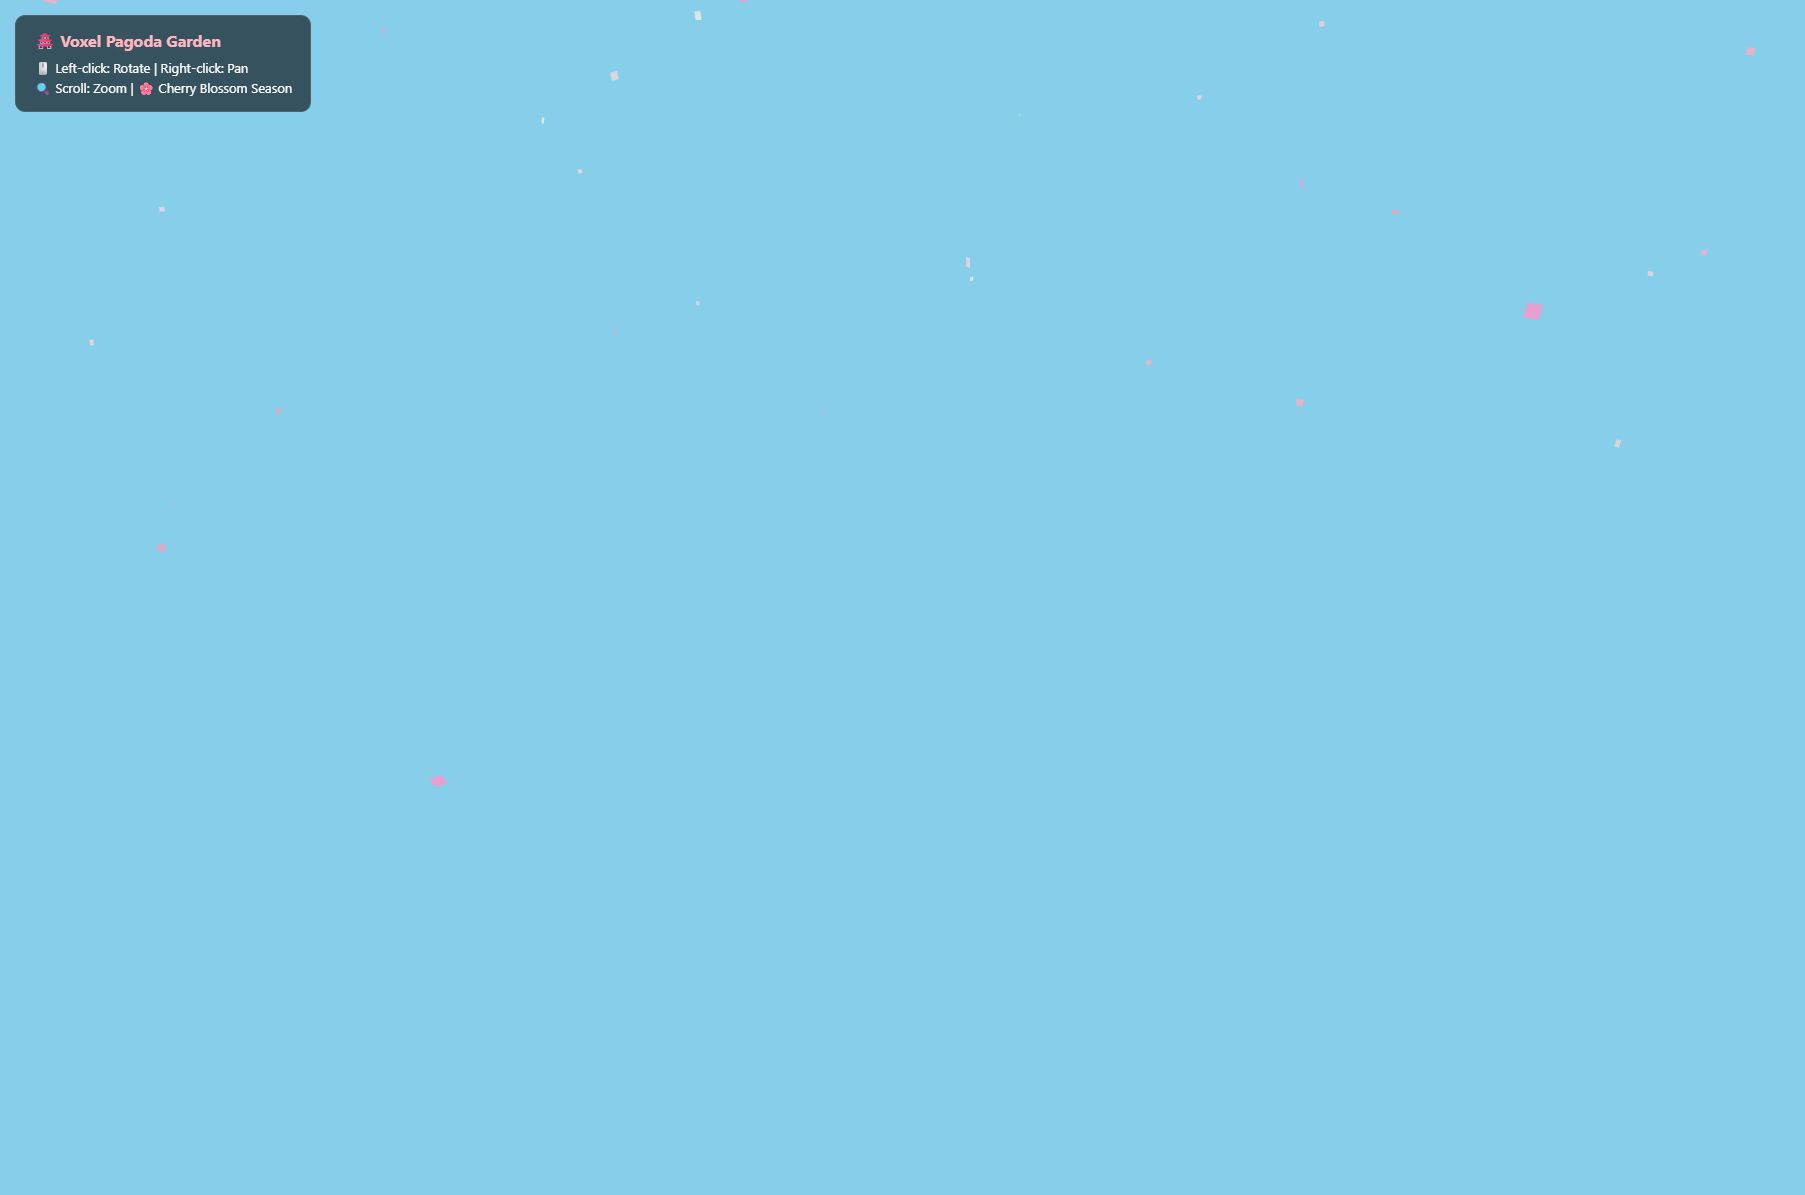
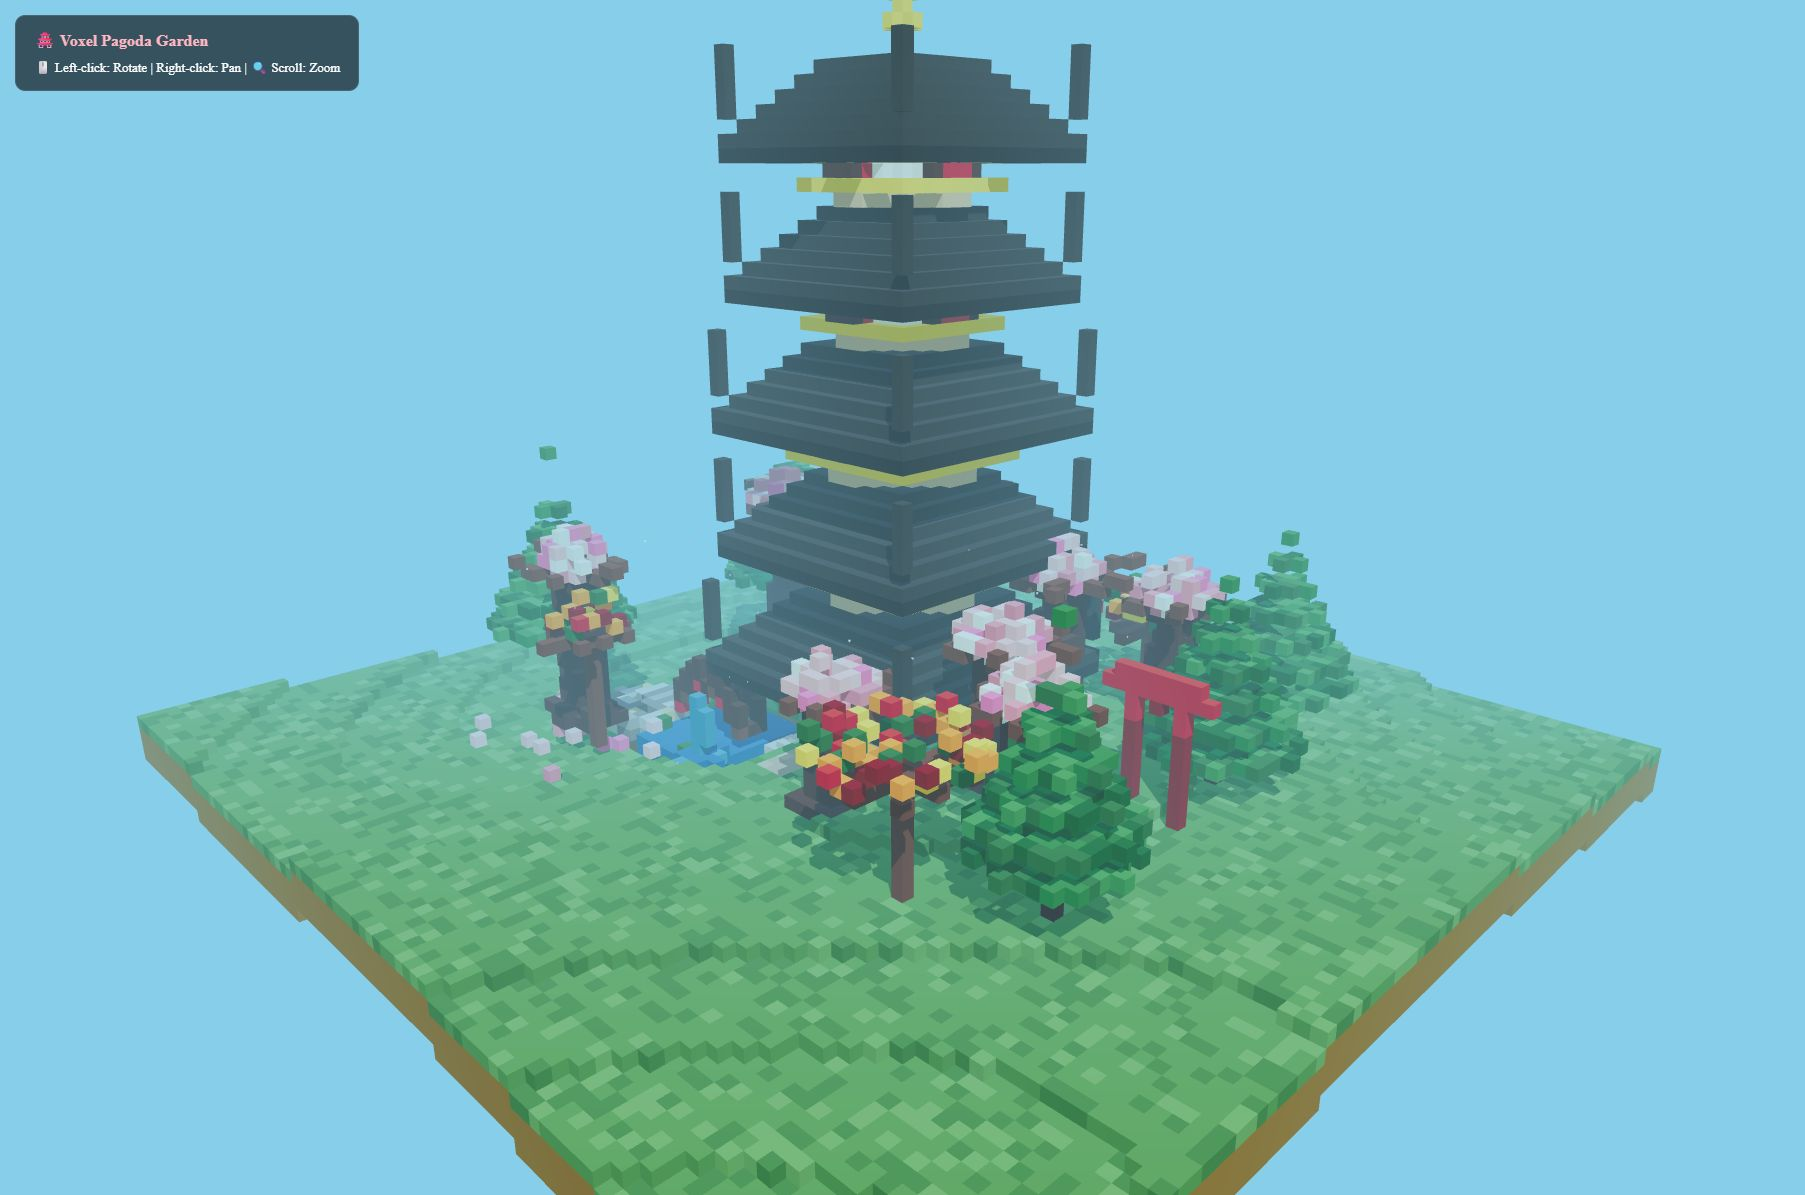
Refresh thinking Deepwen pass 3 preview

diff --git a/pixeltest/index.html b/pixeltest/index.html
@@ -256,12 +256,12 @@
     <section class="grid" aria-label="Published pixel tests">
       <article class="card">
         <a class="thumb" href="/pixeltest/deepwen-36-q5-moq-thinking-pass3/" aria-label="Open Deepwen 3.6 Q5 MoQ thinking local Dunamis pagoda garden pass 3">
-          <img src="/pixeltest/assets/deepwen-36-q5-moq-dunamis-thinking-pass3.png" alt="Pastel sky and falling cherry-blossom petals from the Deepwen thinking-on pagoda scene">
+          <img src="/pixeltest/assets/deepwen-36-q5-moq-dunamis-thinking-pass3.png" alt="Colorful voxel pagoda garden with cherry trees, water, a torii gate, and flowers from the Deepwen thinking-on scene">
         </a>
         <div class="body">
           <span class="tag">Deepwen 3.6 Q5 MoQ · Pass 3 · Thinking · Local Dunamis</span>
           <h2>Deepwen 3.6 · Q5 MoQ</h2>
-          <p class="model">Reasoning on · unmodified output; sky and petals render, but garden geometry is not visible.</p>
+          <p class="model">Reasoning on · current source with repaired instanced-voxel rendering · full garden view</p>
           <div class="actions">
             <a class="button primary" href="/pixeltest/deepwen-36-q5-moq-thinking-pass3/">Open test</a>
           </div>
